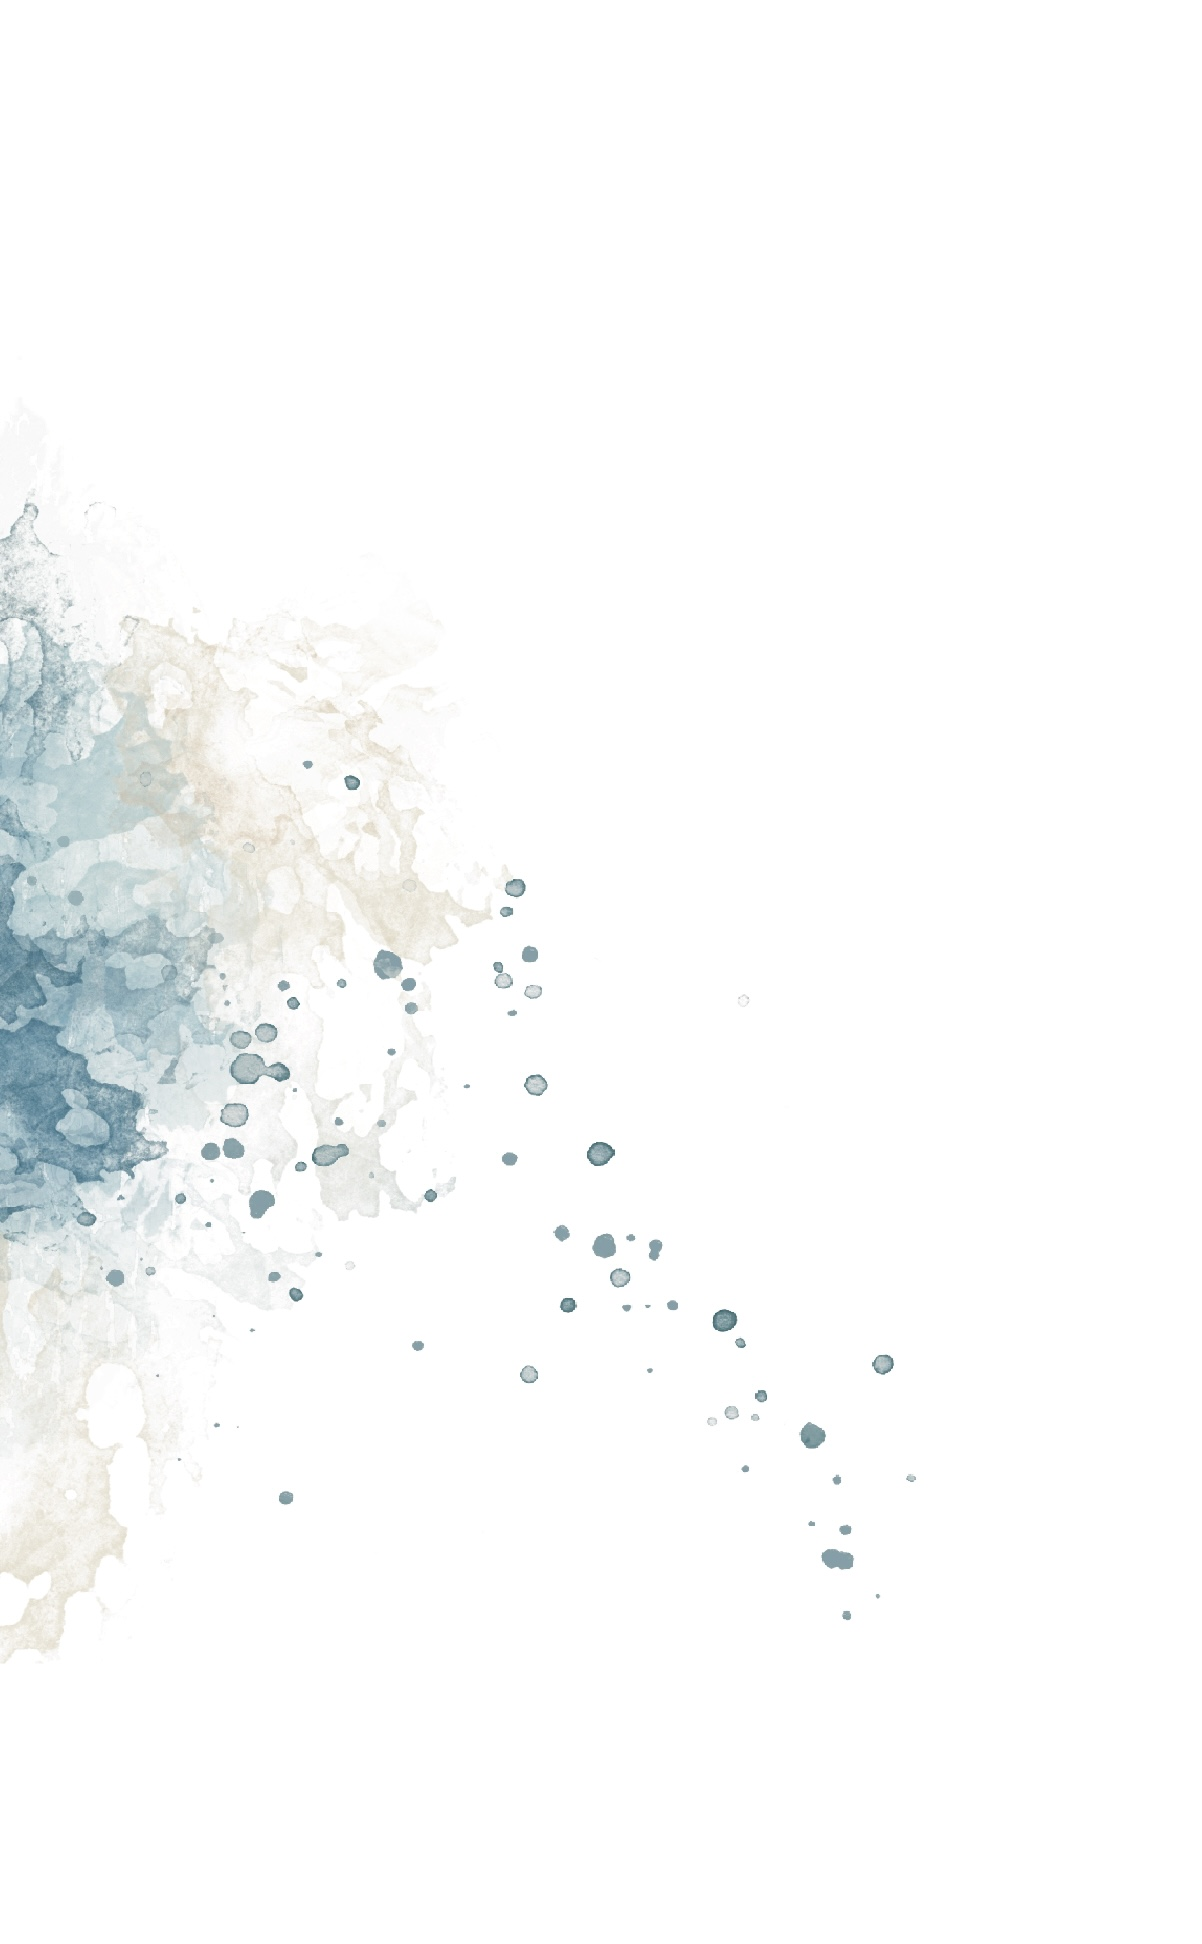
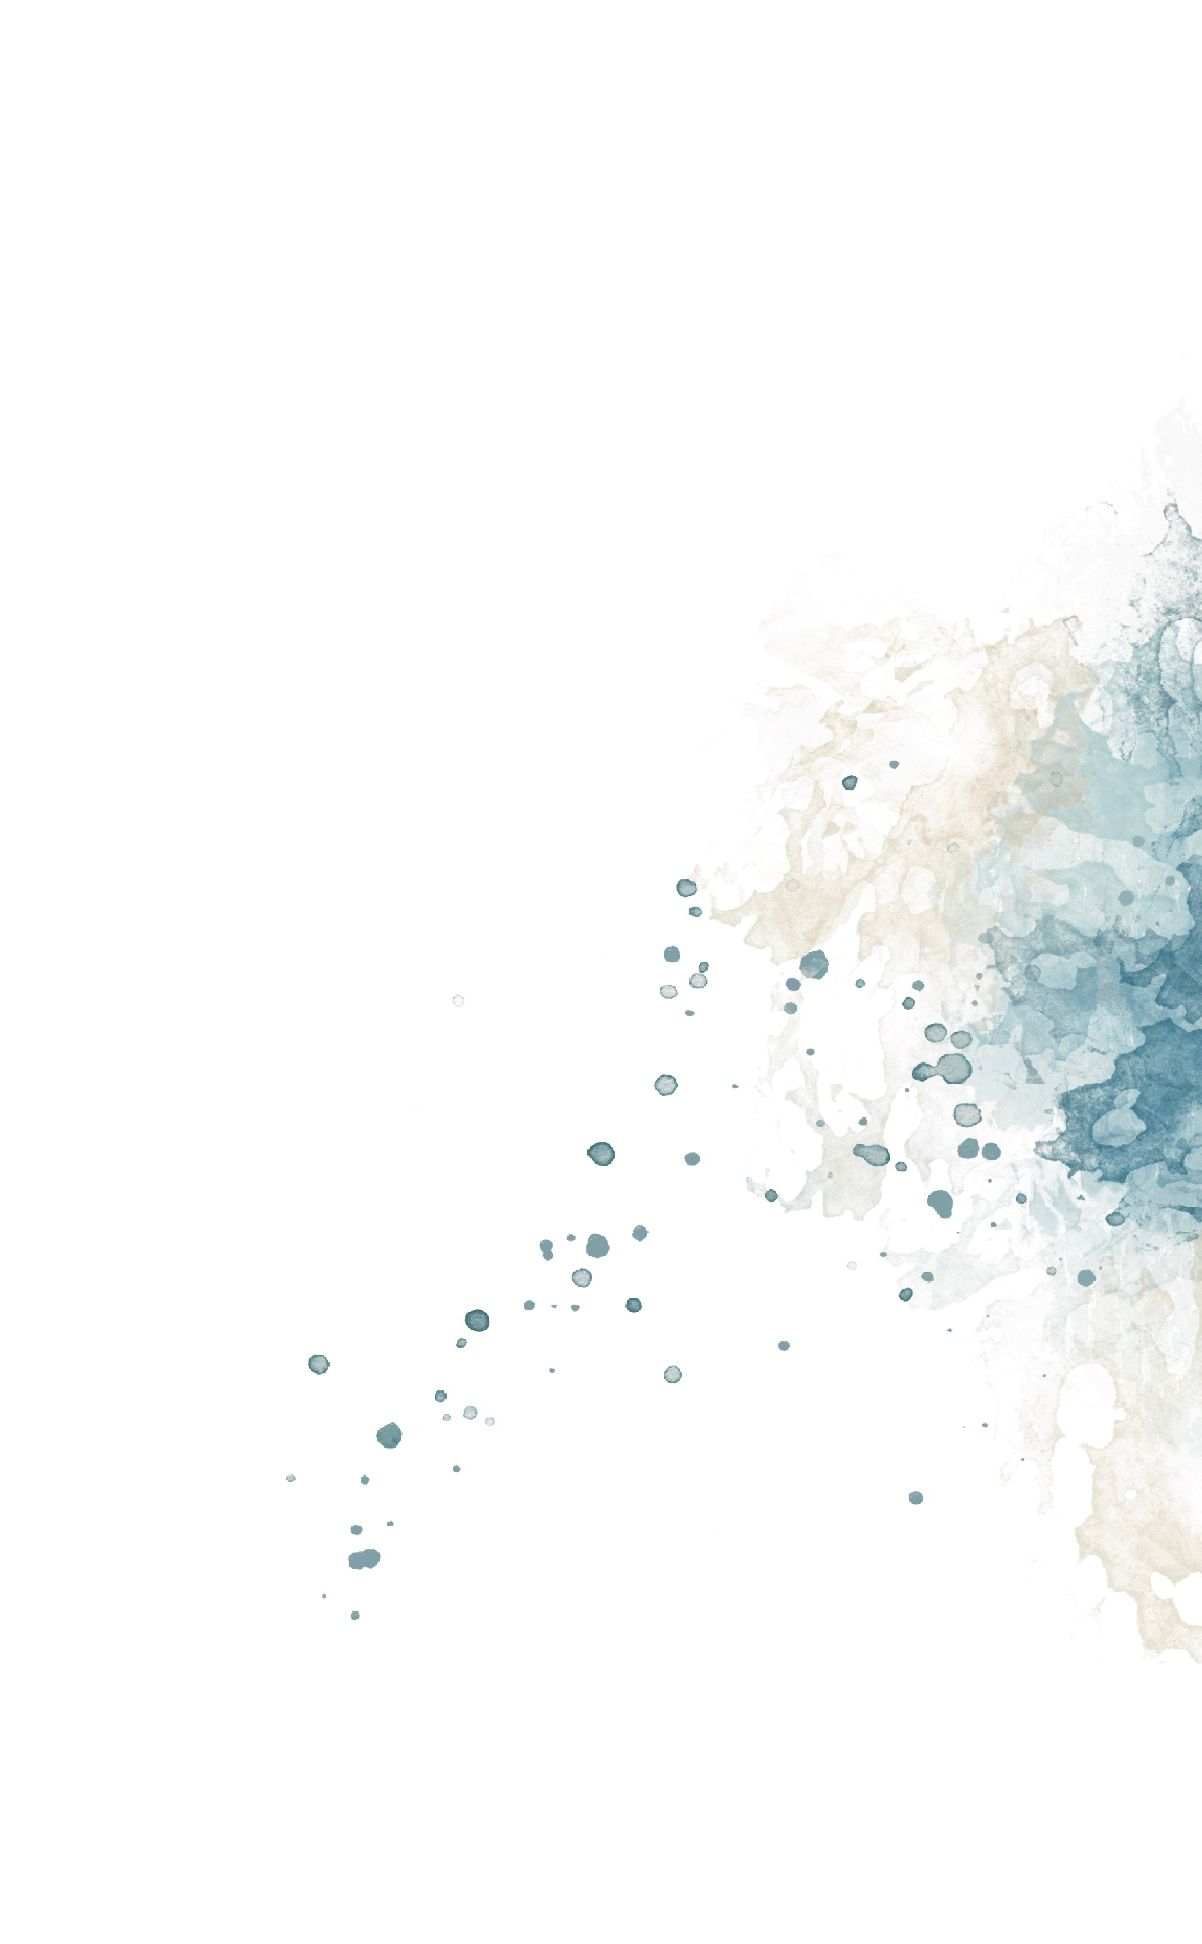
changed home back img

diff --git a/src/styles/pages/home.css b/src/styles/pages/home.css
@@ -13,7 +13,7 @@
 .skvrny-back-1 {
     background: url(/layout/skvrny_back_1.jpg);
     position: absolute;
-    left: 0;
+    right: 0;
     background-size: contain;
     width: 600px;
     height: 1000px;
